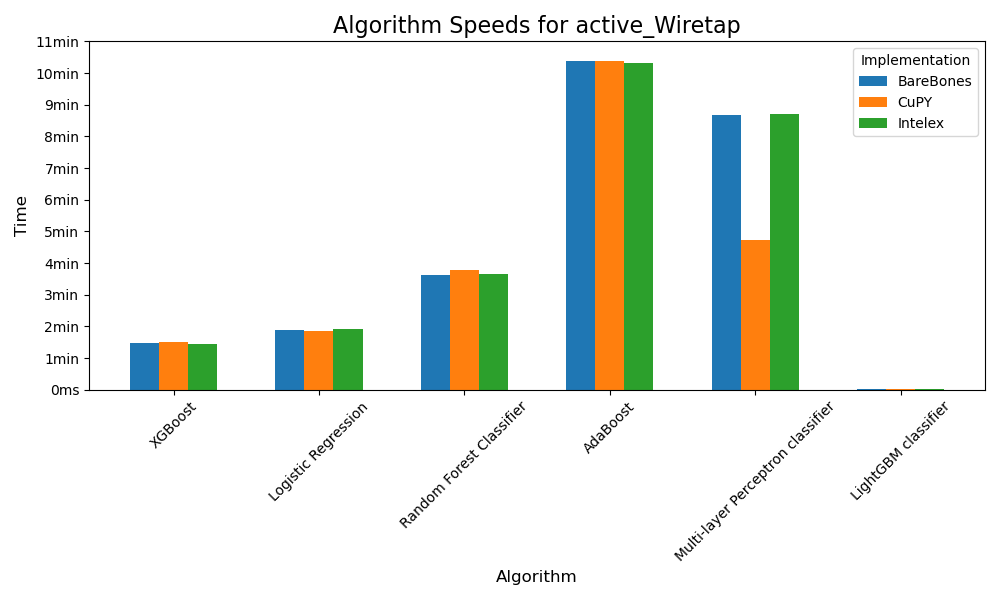
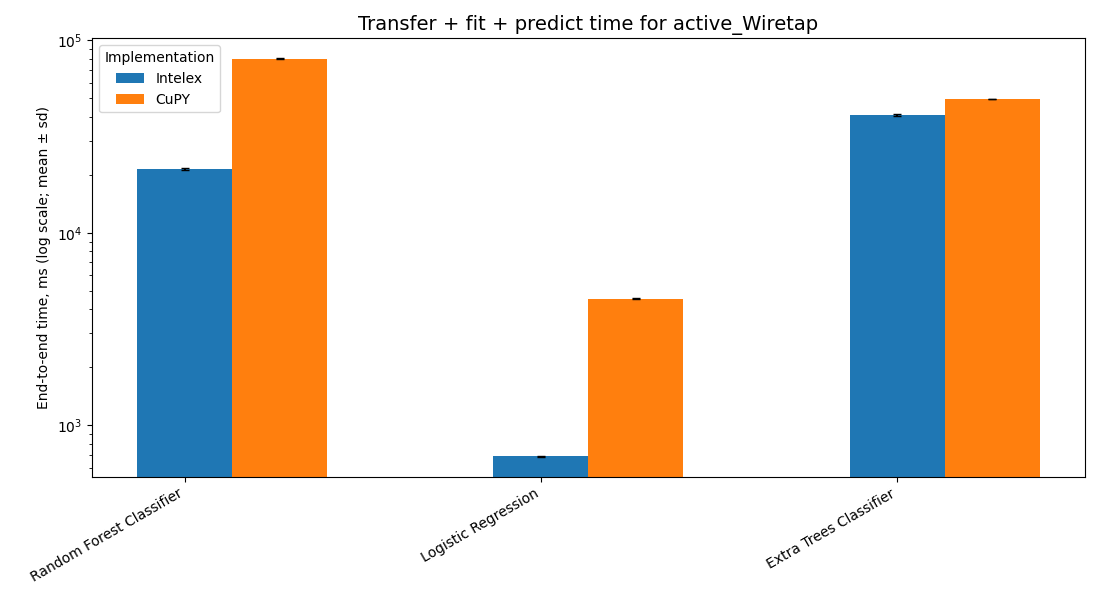
docs: refresh README and charts for patched-model benchmark

diff --git a/README.md b/README.md
@@ -20,33 +20,31 @@ pip install numpy scipy pandas matplotlib scikit-learn scikit-learn-intelex xgbo
 
 **Run the benchmark, then build the tables and charts:**
 ```bash
-python benchmark.py --dataset all --impl all --repeats 5 --warmup 1   # appends to results/runs.csv
+python benchmark.py --dataset all --impl all --repeats 9 --warmup 1   # appends to results/runs.csv
 python results.py                                                     # writes results/summary.md, summary.csv and charts
 ```
-Use `--dataset diabetes`, `--impl Intelex` or `--models XGBoost AdaBoost` to run a subset.
+Use `--dataset diabetes`, `--impl Intelex` or `--models "Random Forest Classifier"` to run a subset.
 
 The notebooks in `models/` are the original exploratory code. Published numbers come from `benchmark.py`.
 
 ## Experiment Methodology
 
 1. **Preprocessing** (`bench/data.py`): each dataset has a single preprocessing pipeline, shared by all implementations. Feature selection, TF-IDF and scaling are fitted on the training split only. Splits are stratified with a fixed seed.
-2. **Models** (`bench/models.py`): one hyperparameter set per model, the same on every dataset and implementation:
-    - LightGBM
-    - XGBoost
-    - Logistic Regression
+2. **Models** (`bench/models.py`): the benchmark runs only the classifiers that scikit-learn-intelex actually patches, verified against `sklearnex.get_patch_map()`, so every Intelex measurement reflects a real oneDAL path. One hyperparameter set per model, the same on every dataset and implementation:
     - Random Forest
-    - AdaBoost
-    - Multi-Layer Perceptron (MLP)
+    - Logistic Regression
+    - Extra Trees
+   LightGBM and XGBoost (not scikit-learn) and AdaBoost and the MLP (scikit-learn, but not patched by sklearnex) were removed for that reason.
 3. **Implementation Variants**:
-    - **BareBones**: stock scikit-learn. XGBoost runs on the CPU (`device="cpu"`).
-    - **Intelex**: `patch_sklearn()` is applied in a fresh process *before* any estimator is imported. sklearnex only accelerates some estimators (e.g. Logistic Regression, Random Forest). The `Backend` column records which library actually ran each model, so an unpatched estimator is visible rather than silently counted as "Intelex". LightGBM and XGBoost are never affected by sklearnex.
-    - **CuPy**: data is moved to the GPU with CuPy. XGBoost trains on the GPU (`device="cuda"`) directly from CuPy arrays. The scikit-learn models and LightGBM cannot use CuPy arrays, so the data is copied back to the host and they train on the CPU. That round trip is measured as transfer time.
+    - **Intelex**: `patch_sklearn()` is applied in a fresh process *before* any estimator is imported, so each model runs on the oneDAL backend. The `Backend` column records which library actually ran each model (`sklearnex.*` when patched), so a fallback is visible rather than silently counted as "Intelex".
+    - **CuPy**: data is moved to the GPU with CuPy. None of these three estimators has a CuPy/GPU training path, so the data is copied back to the host and they train on the CPU with stock scikit-learn. That round trip is measured as transfer time, so this variant is effectively *stock scikit-learn + transfer overhead*.
+    - **BareBones** (stock scikit-learn, no transfer) is still available via `--impl BareBones` if an untaxed CPU baseline is wanted; the published run below compares Intelex against CuPy.
 4. **Measurement protocol** (`bench/harness.py`):
     - **Warm-up**: 1 discarded run per model, so first-call overhead is excluded. This covers library loading, JIT/kernel compilation and the CUDA context, which is also created before any timer starts.
-    - **Repeats**: 5 measured runs per model (configurable). Tables report **mean ± standard deviation**.
+    - **Repeats**: 9 measured runs per model (configurable). Tables report **mean ± standard deviation**.
     - **Separate timers**: **transfer** (host↔GPU copies), **fit** (training) and **predict** (inference on the test split). GPU work is synchronised before each timer stops.
     - **Quality**: **accuracy** and **macro F1** on the held-out test split, reported next to every time. A speed-up that comes with a drop in F1 is not counted as a win.
-    - **Speedup**: BareBones mean time ÷ implementation mean time (> 1 = faster), reported for fit time and for end-to-end time (transfer + fit + predict).
+    - **Speedup**: baseline mean time ÷ implementation mean time (> 1 = faster), reported for fit time and for end-to-end time (transfer + fit + predict).
     - Each implementation runs in its own Python process, so the Intelex patch cannot leak into the other runs.
 
 # How the experiments were conducted
@@ -54,8 +52,8 @@ The notebooks in `models/` are the original exploratory code. Published numbers 
 
 # Hardware used:
 
-- **CPU**: Intel Core i5 (12th Gen)  
-- **GPU**: NVIDIA GeForce GTX 1660 Super  
+- **CPU**: Intel Core i9-10900F (10 cores / 20 threads)  
+- **GPU**: NVIDIA GeForce RTX 4060 (8 GB)  
 - **Storage**: SSD  
 - **RAM**: 32 GB  
 
@@ -70,7 +68,39 @@ The notebooks in `models/` are the original exploratory code. Published numbers 
 
 ## Results
 
-> **Status:** the measured tables (mean ± sd, inference and transfer time, accuracy and macro F1 for every cell) are produced by `python results.py` into [`results/summary.md`](results/summary.md) after a run of `benchmark.py` on the hardware above. Paste its "Speedup factors" table here once the re-run is done.
+Full per-cell tables (mean ± sd for transfer, fit, predict and total time, plus accuracy and macro F1 and the backend that actually ran) are in [`results/summary.md`](results/summary.md), produced by `python results.py`. The run below is all five datasets × the three patched models × 9 repeats, with Active Wiretap at full scale (2.28M rows).
+
+### Intelex speedup vs CuPy (end-to-end: transfer + fit + predict)
+
+Each cell is **CuPy total ÷ Intelex total**, so > 1 means Intelex is faster. Because none of these models has a GPU training path, "CuPy" here is stock scikit-learn plus the host↔GPU round trip, so this reads as *oneDAL vs stock scikit-learn*.
+
+| Model | Wiretap (2.28M) | Cyberbullying (sparse) | Diabetes | Loan | Student |
+|---|---|---|---|---|---|
+| Random Forest | **3.8×** | 1.0× | **2.6×** | 0.94× | **36×** |
+| Logistic Regression | **6.6×** | 1.0× | **3.3×** | 0.62× | 0.71× |
+| Extra Trees | 1.2× | 1.0× | 0.60× | 1.2× | **26×** |
+
+**What the numbers show:**
+
+1. **oneDAL wins clearly on dense numeric data**, most of all for Logistic Regression and Random Forest: 6.6× and 3.8× on the full 2.28M-row Wiretap capture, and 3.3× / 2.6× on Diabetes.
+2. **On sparse TF-IDF input (Cyberbullying) Intelex gives no speedup** — sklearnex falls back to stock scikit-learn for sparse data, so all three models tie.
+3. **On tiny data (Student, ~700-row test split) the tree models are 26–36× faster** under Intelex, because oneDAL's fixed per-call overhead is far lower than stock scikit-learn's.
+4. **Extra Trees is inconsistent** — oneDAL is slower than stock on Diabetes (0.60×) and a wash elsewhere, so it is not a blanket win.
+5. **Accuracy and macro F1 match across implementations to ~4 decimals** on every cell, so the Intelex speedups come with no quality regression.
+
+### Charts
+
+End-to-end time per model (log scale, mean ± sd error bars), regenerated by `python results.py`:
+
+<img src="https://github.com/allenmonkey970/IntelexVsCuda/blob/master/results/active_Wiretap_speeds.png" width=70% height=70%>
+<img src="https://github.com/allenmonkey970/IntelexVsCuda/blob/master/results/cyberbully%20detection_speeds.png" width=70% height=70%>
+<img src="https://github.com/allenmonkey970/IntelexVsCuda/blob/master/results/diabetes_speeds.png" width=70% height=70%>
+<img src="https://github.com/allenmonkey970/IntelexVsCuda/blob/master/results/loan%20prediction_speeds.png" width=70% height=70%>
+<img src="https://github.com/allenmonkey970/IntelexVsCuda/blob/master/results/student_performance_speeds.png" width=70% height=70%>
+
+<details>
+<summary>Legacy experiment (superseded)</summary>
+
 > The numbers below come from the **original experiment** ([`PerformanceSpeeds.csv`](PerformanceSpeeds.csv), full table in [`results/legacy_summary.md`](results/legacy_summary.md)). They are single runs of training time only, with no warm-up. Read them with the caveats listed after the table.
 
 ### Legacy speedup factors vs BareBones (training time, single run)
@@ -106,16 +136,6 @@ Each cell is **Intelex × / CuPy ×**. Speedup = BareBones time ÷ variant time,
 6. **Dataset size dominates absolute time.** On Wiretap, training took 88 s (XGBoost) to 622 s (AdaBoost), with LightGBM at 1.0 s. On Diabetes and Student, every model trained in under 1.4 s.
 7. The Student Performance notebook has no LightGBM cell, so that CSV row cannot be reproduced from the repository.
 
-<details>
-<summary>Legacy charts (training time, single run)</summary>
-
-<img src="https://github.com/allenmonkey970/IntelexVsCuda/blob/master/results/active_Wiretap_speeds.png" width=70% height=70%>
-<img src="https://github.com/allenmonkey970/IntelexVsCuda/blob/master/results/cyberbully%20detection_speeds.png" width=70% height=70%>
-<img src="https://github.com/allenmonkey970/IntelexVsCuda/blob/master/results/diabetes_speeds.png" width=70% height=70%>
-<img src="https://github.com/allenmonkey970/IntelexVsCuda/blob/master/results/loan%20prediction_speeds.png" width=70% height=70%>
-<img src="https://github.com/allenmonkey970/IntelexVsCuda/blob/master/results/student_performance_speeds.png" width=70% height=70%>
-
-`python results.py` overwrites these files with end-to-end time charts (log scale, mean ± sd error bars).
 </details>
 
 ---

diff --git a/results/summary.md b/results/summary.md
@@ -1,0 +1,79 @@
+# Benchmark summary
+
+Times are mean ± standard deviation over 9 measured runs (after warm-up), in milliseconds.
+Speedup = BareBones mean / implementation mean (> 1 is faster). Accuracy and macro F1 are on the held-out test split.
+
+## Speedup factors vs BareBones (end-to-end: transfer + fit + predict)
+
+| Dataset | Model | Intelex | CuPy | Δ macro F1 Intelex | Δ macro F1 CuPy |
+|---|---|---|---|---|---|
+| active_Wiretap | Random Forest Classifier | – | – | +nan | +nan |
+| active_Wiretap | Logistic Regression | – | – | +nan | +nan |
+| active_Wiretap | Extra Trees Classifier | – | – | +nan | +nan |
+| cyberbully detection | Random Forest Classifier | – | – | +nan | +nan |
+| cyberbully detection | Logistic Regression | – | – | +nan | +nan |
+| cyberbully detection | Extra Trees Classifier | – | – | +nan | +nan |
+| diabetes | Random Forest Classifier | – | – | +nan | +nan |
+| diabetes | Logistic Regression | – | – | +nan | +nan |
+| diabetes | Extra Trees Classifier | – | – | +nan | +nan |
+| loan prediction | Random Forest Classifier | – | – | +nan | +nan |
+| loan prediction | Logistic Regression | – | – | +nan | +nan |
+| loan prediction | Extra Trees Classifier | – | – | +nan | +nan |
+| student_performance | Random Forest Classifier | – | – | +nan | +nan |
+| student_performance | Logistic Regression | – | – | +nan | +nan |
+| student_performance | Extra Trees Classifier | – | – | +nan | +nan |
+
+## active_Wiretap
+
+| Model | Impl | Fit ms | Predict ms | Transfer ms | Total ms | Speedup (fit) | Speedup (total) | Accuracy | Macro F1 | Backend |
+|---|---|---|---|---|---|---|---|---|---|---|
+| Random Forest Classifier | Intelex | 20,838 ± 216 | 607 ± 29 | 0.0 ± 0.0 | 21,444 ± 197 | – | – | 1.0000 | 1.0000 | `sklearnex.ensemble._forest` |
+| Random Forest Classifier | CuPY | 79,710 ± 264 | 514 ± 20 | 311 ± 39 | 80,534 ± 271 | – | – | 1.0000 | 1.0000 | `sklearn.ensemble._forest` |
+| Logistic Regression | Intelex | 666 ± 6 | 20.2 ± 1.9 | 0.0 ± 0.0 | 687 ± 5 | – | – | 0.7661 | 0.7579 | `sklearnex.linear_model.logistic_regression` |
+| Logistic Regression | CuPY | 4,189 ± 18 | 17.7 ± 0.3 | 341 ± 15 | 4,548 ± 26 | – | – | 0.7675 | 0.7591 | `sklearn.linear_model._logistic` |
+| Extra Trees Classifier | Intelex | 39,954 ± 606 | 818 ± 161 | 0.0 ± 0.0 | 40,773 ± 517 | – | – | 1.0000 | 1.0000 | `sklearnex.ensemble._forest` |
+| Extra Trees Classifier | CuPY | 48,601 ± 88 | 716 ± 14 | 324 ± 30 | 49,642 ± 101 | – | – | 1.0000 | 1.0000 | `sklearn.ensemble._forest` |
+
+## cyberbully detection
+
+| Model | Impl | Fit ms | Predict ms | Transfer ms | Total ms | Speedup (fit) | Speedup (total) | Accuracy | Macro F1 | Backend |
+|---|---|---|---|---|---|---|---|---|---|---|
+| Random Forest Classifier | Intelex | 1,955 ± 9 | 41.8 ± 0.3 | 0.0 ± 0.0 | 1,996 ± 9 | – | – | 0.6420 | 0.6109 | `sklearnex.ensemble._forest` |
+| Random Forest Classifier | CuPY | 1,946 ± 17 | 42.6 ± 0.4 | 4.2 ± 1.3 | 1,993 ± 18 | – | – | 0.6420 | 0.6109 | `sklearn.ensemble._forest` |
+| Logistic Regression | Intelex | 838 ± 3 | 1.4 ± 0.0 | 0.0 ± 0.0 | 839 ± 3 | – | – | 0.5020 | 0.4945 | `sklearnex.linear_model.logistic_regression` |
+| Logistic Regression | CuPY | 838 ± 2 | 0.6 ± 0.0 | 4.8 ± 0.1 | 843 ± 2 | – | – | 0.5020 | 0.4945 | `sklearn.linear_model._logistic` |
+| Extra Trees Classifier | Intelex | 2,728 ± 60 | 44.6 ± 4.5 | 0.0 ± 0.0 | 2,772 ± 58 | – | – | 0.6524 | 0.6172 | `sklearnex.ensemble._forest` |
+| Extra Trees Classifier | CuPY | 2,717 ± 17 | 47.7 ± 5.4 | 5.0 ± 0.1 | 2,770 ± 18 | – | – | 0.6524 | 0.6172 | `sklearn.ensemble._forest` |
+
+## diabetes
+
+| Model | Impl | Fit ms | Predict ms | Transfer ms | Total ms | Speedup (fit) | Speedup (total) | Accuracy | Macro F1 | Backend |
+|---|---|---|---|---|---|---|---|---|---|---|
+| Random Forest Classifier | Intelex | 197 ± 14 | 21.3 ± 2.3 | 0.0 ± 0.0 | 219 ± 15 | – | – | 0.9697 | 0.8894 | `sklearnex.ensemble._forest` |
+| Random Forest Classifier | CuPY | 527 ± 10 | 42.2 ± 0.4 | 2.0 ± 0.1 | 572 ± 10 | – | – | 0.9699 | 0.8898 | `sklearn.ensemble._forest` |
+| Logistic Regression | Intelex | 9.6 ± 0.2 | 1.3 ± 0.1 | 0.0 ± 0.0 | 10.9 ± 0.2 | – | – | 0.9603 | 0.8550 | `sklearnex.linear_model.logistic_regression` |
+| Logistic Regression | CuPY | 33.7 ± 0.3 | 0.4 ± 0.0 | 1.8 ± 0.1 | 35.9 ± 0.3 | – | – | 0.9603 | 0.8550 | `sklearn.linear_model._logistic` |
+| Extra Trees Classifier | Intelex | 731 ± 87 | 23.4 ± 0.6 | 0.0 ± 0.0 | 754 ± 87 | – | – | 0.9667 | 0.8819 | `sklearnex.ensemble._forest` |
+| Extra Trees Classifier | CuPY | 406 ± 11 | 43.4 ± 4.0 | 5.0 ± 0.7 | 454 ± 12 | – | – | 0.9677 | 0.8835 | `sklearn.ensemble._forest` |
+
+## loan prediction
+
+| Model | Impl | Fit ms | Predict ms | Transfer ms | Total ms | Speedup (fit) | Speedup (total) | Accuracy | Macro F1 | Backend |
+|---|---|---|---|---|---|---|---|---|---|---|
+| Random Forest Classifier | Intelex | 44,378 ± 365 | 197 ± 16 | 0.0 ± 0.0 | 44,575 ± 349 | – | – | 0.8976 | 0.7530 | `sklearnex.ensemble._forest` |
+| Random Forest Classifier | CuPY | 41,448 ± 120 | 222 ± 14 | 329 ± 36 | 41,999 ± 104 | – | – | 0.8971 | 0.7519 | `sklearn.ensemble._forest` |
+| Logistic Regression | Intelex | 897 ± 13 | 15.5 ± 2.2 | 0.0 ± 0.0 | 912 ± 14 | – | – | 0.8770 | 0.4672 | `sklearnex.linear_model.logistic_regression` |
+| Logistic Regression | CuPY | 398 ± 10 | 12.6 ± 0.1 | 158 ± 7 | 568 ± 11 | – | – | 0.8770 | 0.4672 | `sklearn.linear_model._logistic` |
+| Extra Trees Classifier | Intelex | 64,161 ± 578 | 233 ± 17 | 0.0 ± 0.0 | 64,394 ± 564 | – | – | 0.8970 | 0.7494 | `sklearnex.ensemble._forest` |
+| Extra Trees Classifier | CuPY | 78,417 ± 205 | 262 ± 7 | 341 ± 41 | 79,021 ± 214 | – | – | 0.8976 | 0.7499 | `sklearn.ensemble._forest` |
+
+## student_performance
+
+| Model | Impl | Fit ms | Predict ms | Transfer ms | Total ms | Speedup (fit) | Speedup (total) | Accuracy | Macro F1 | Backend |
+|---|---|---|---|---|---|---|---|---|---|---|
+| Random Forest Classifier | Intelex | 2.8 ± 0.4 | 1.7 ± 0.0 | 0.0 ± 0.0 | 4.4 ± 0.5 | – | – | 1.0000 | 1.0000 | `sklearnex.ensemble._forest` |
+| Random Forest Classifier | CuPY | 128 ± 4 | 29.4 ± 0.5 | 0.4 ± 0.1 | 158 ± 4 | – | – | 1.0000 | 1.0000 | `sklearn.ensemble._forest` |
+| Logistic Regression | Intelex | 4.6 ± 0.1 | 0.9 ± 0.1 | 0.0 ± 0.0 | 5.5 ± 0.1 | – | – | 0.9789 | 0.9789 | `sklearnex.linear_model.logistic_regression` |
+| Logistic Regression | CuPY | 3.4 ± 0.1 | 0.2 ± 0.0 | 0.3 ± 0.0 | 3.9 ± 0.1 | – | – | 0.9789 | 0.9789 | `sklearn.linear_model._logistic` |
+| Extra Trees Classifier | Intelex | 3.1 ± 0.1 | 1.8 ± 0.0 | 0.0 ± 0.0 | 4.9 ± 0.1 | – | – | 0.9859 | 0.9859 | `sklearnex.ensemble._forest` |
+| Extra Trees Classifier | CuPY | 97.5 ± 2.2 | 29.5 ± 0.5 | 0.5 ± 0.1 | 128 ± 2 | – | – | 0.9789 | 0.9789 | `sklearn.ensemble._forest` |
